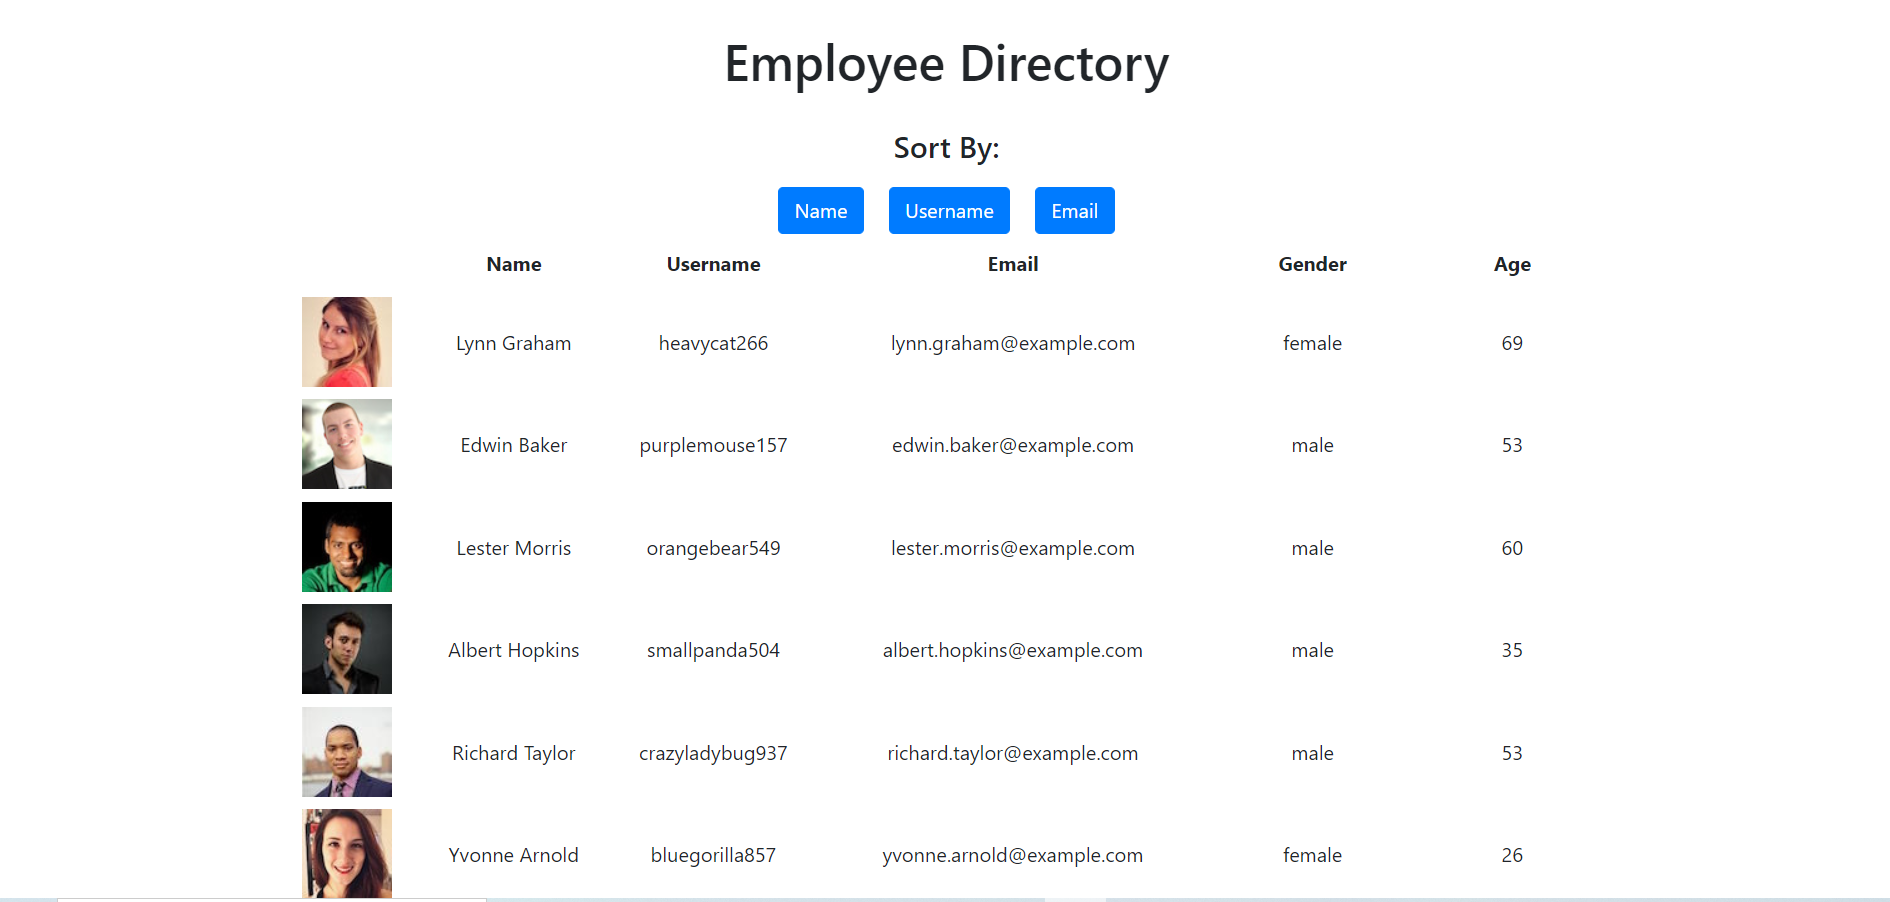
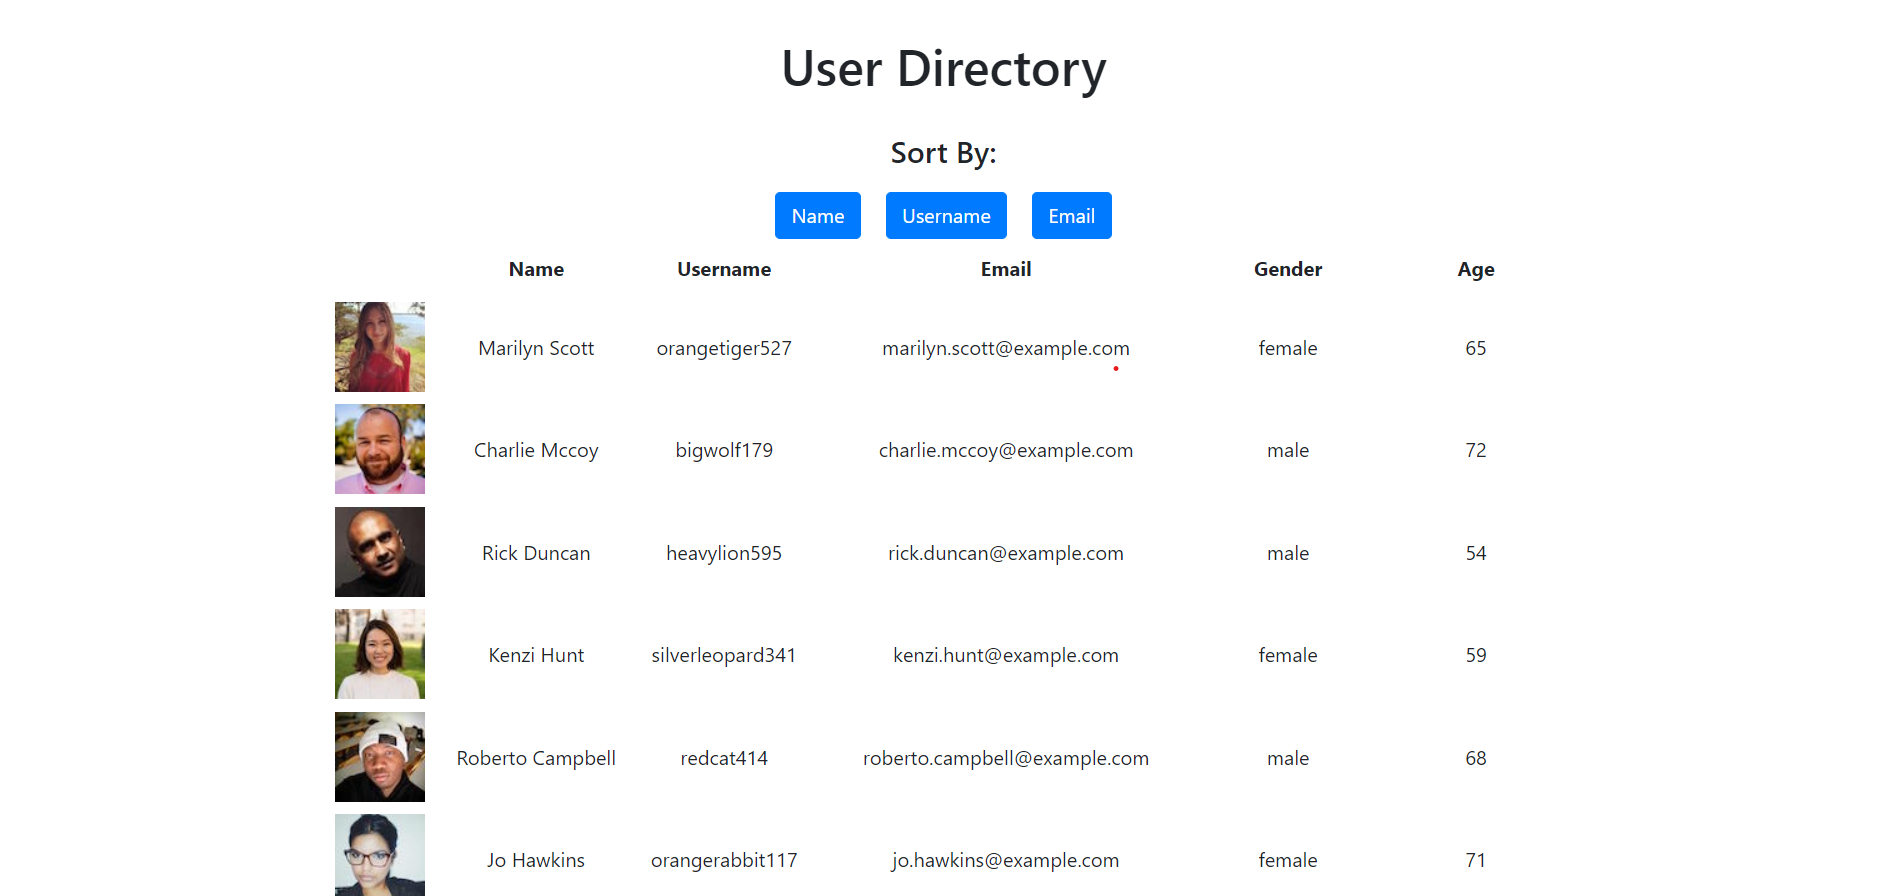
update

diff --git a/public/index.html b/public/index.html
@@ -1,17 +1,17 @@
 <!DOCTYPE html>
 <html lang="en">
-  <head>
-    <meta charset="utf-8" />
-    <link rel="icon" href="%PUBLIC_URL%/favicon.ico" />
-    <meta name="viewport" content="width=device-width, initial-scale=1" />
-    <meta name="theme-color" content="#000000" />
-    <meta
-      name="description"
-      content="Web site created using create-react-app"
-    />
-    <title>Employee Directory</title>
-  </head>
-  <body>
-    <div id="root"></div>
-  </body>
+
+<head>
+  <meta charset="utf-8" />
+  <link rel="icon" href="%PUBLIC_URL%/favicon.ico" />
+  <meta name="viewport" content="width=device-width, initial-scale=1" />
+  <meta name="theme-color" content="#000000" />
+  <meta name="description" content="Web site created using create-react-app" />
+  <title>User Directory</title>
+</head>
+
+<body>
+  <div id="root"></div>
+</body>
+
 </html>

diff --git a/src/components/Heading/index.js b/src/components/Heading/index.js
@@ -4,7 +4,7 @@ import "./style.css";
 function Heading() {
   return (
     <header>
-      <h1>Employee Directory</h1>
+      <h1>User Directory</h1>
     </header>
   );
 }

diff --git a/README.md b/README.md
@@ -3,22 +3,12 @@
 
 ## Description
 
-The employee directory is a React app that uses the random user generator from [randomuser.me](https://randomuser.me/) to generate a table of 40 random users along with their associated information. You can filter the table alphabetically by 3 categories: name, email, and username. The table can then displayed in reverse order by clicking a generated arrow button.
+The User directory is a React app that uses the random user generator from [randomuser.me](https://randomuser.me/) to generate a table of 40 random users along with their associated information. You can filter the table alphabetically by 3 categories: name, email, and username. The table can then displayed in reverse order by clicking a generated arrow button.
 
 ### _Visit this website by clicking the link below_
 [Employee Directory](https://derrick1020.github.io/user-directory/)
 
 ![employee directory screenshot](public/img/user.png)
-
-## Table of Contents 
-
-* [Installation](#installation)
-
-* [License](#license)
-
-* [Tests](#tests)
-
-* [Questions](#questions)
 
 ## Installation
 
